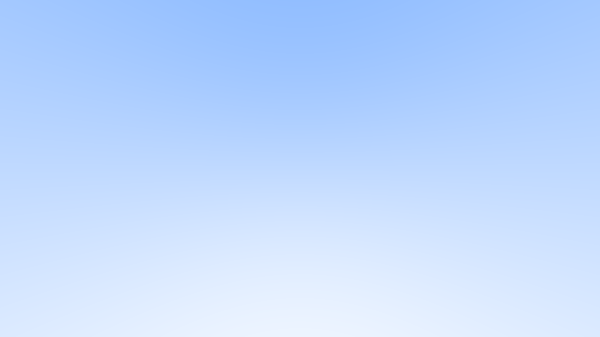
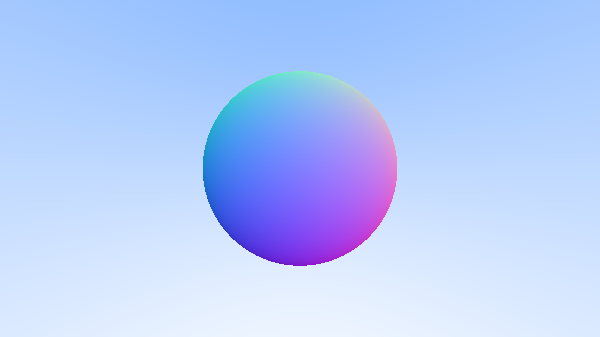
Restructure the code up to normals

Changed region(s): [[0.33, 0.2077, 0.66, 0.8012]]

diff --git a/src/main.rs b/src/main.rs
@@ -1,10 +1,14 @@
+mod hit;
 mod ray;
+mod sphere;
 mod vector;
 
 use std::error::Error;
 
+use hit::Hittable;
 use image::{self, io::Reader, Pixel, Rgb, RgbImage};
 use ray::Ray;
+use sphere::Sphere;
 use vector::{Point, Vector};
 
 type Color = vector::Vector;
@@ -16,10 +20,16 @@ fn write_color(img: &mut RgbImage, x: u32, y: u32, color: Color) {
 }
 
 fn ray_color(ray: &Ray) -> Color {
+    let s = Sphere::new(Point::new(0.0, 0.0, -1.0), 0.5);
+
+    if let Some(hit) = s.hit(ray, 0.0, f64::MAX) {
+        return 0.5 * Color::new(hit.normal.x + 1.0, hit.normal.y + 1.0, hit.normal.z + 1.0);
+    }
+
     let unit = ray.direction.unit();
     let a = 0.5 * (unit.y + 1.0);
 
-    a * Color::new(1.0, 1.0, 1.0) + (1.0 - a) * Color::new(0.5, 0.7, 1.0)
+    (1.0 - a) * Color::new(1.0, 1.0, 1.0) + a * Color::new(0.5, 0.7, 1.0)
 }
 
 fn main() -> Result<(), Box<dyn Error>> {
@@ -33,7 +43,7 @@ fn main() -> Result<(), Box<dyn Error>> {
     let camera_center = Point::new(0.0, 0.0, 0.0);
 
     let vu = Vector::new(vw, 0.0, 0.0);
-    let vv = Vector::new(0.0, vh, 0.0);
+    let vv = Vector::new(0.0, -vh, 0.0);
 
     let pdu = vu / imw as f64;
     let pdv = vv / imh as f64;

diff --git a/src/sphere.rs b/src/sphere.rs
@@ -1,0 +1,38 @@
+use crate::{
+    hit::{Hit, Hittable},
+    vector::Point,
+};
+
+pub struct Sphere {
+    pub center: Point,
+    pub radius: f64,
+}
+
+impl Sphere {
+    pub fn new(center: Point, radius: f64) -> Self {
+        Sphere { center, radius }
+    }
+}
+
+impl Hittable for Sphere {
+    fn hit(&self, ray: &crate::ray::Ray, t_min: f64, t_max: f64) -> Option<crate::hit::Hit> {
+        let oc = ray.origin - self.center;
+        let a = ray.direction.length_squared();
+        let half_b = oc.dot(&ray.direction);
+        let c = oc.length_squared() - self.radius * self.radius;
+
+        let discriminant = half_b * half_b - a * c;
+
+        if discriminant < 0.0 {
+            None
+        } else {
+            let t = (-half_b - discriminant.sqrt()) / a;
+
+            if t > t_max || t < t_min {
+                None
+            } else {
+                Some(Hit::new(ray.at(t), (ray.at(t) - self.center).unit(), t))
+            }
+        }
+    }
+}

diff --git a/src/hit.rs b/src/hit.rs
@@ -1,0 +1,21 @@
+use crate::{ray::Ray, vector::Point, Vector};
+
+pub struct Hit {
+    pub hit_point: Point,
+    pub normal: Vector,
+    pub time: f64,
+}
+
+impl Hit {
+    pub fn new(hit_point: Point, normal: Vector, time: f64) -> Self {
+        Hit {
+            hit_point,
+            normal,
+            time,
+        }
+    }
+}
+
+pub trait Hittable {
+    fn hit(&self, ray: &Ray, t_min: f64, t_max: f64) -> Option<Hit>;
+}
